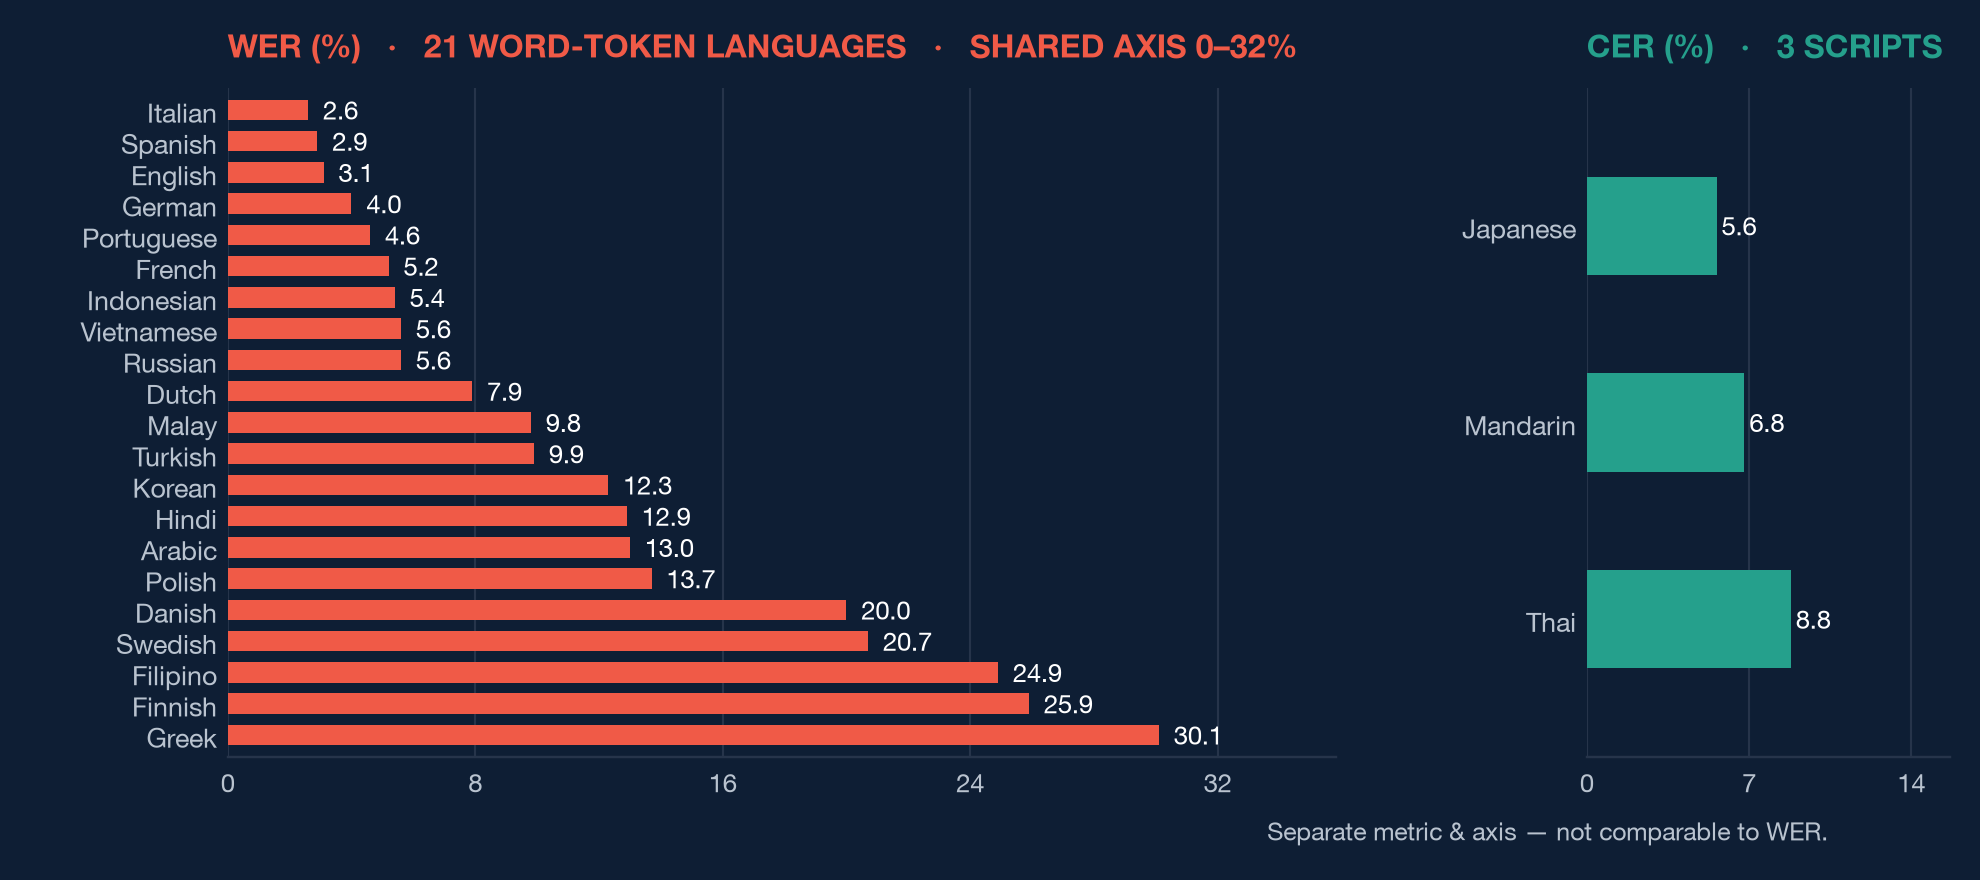
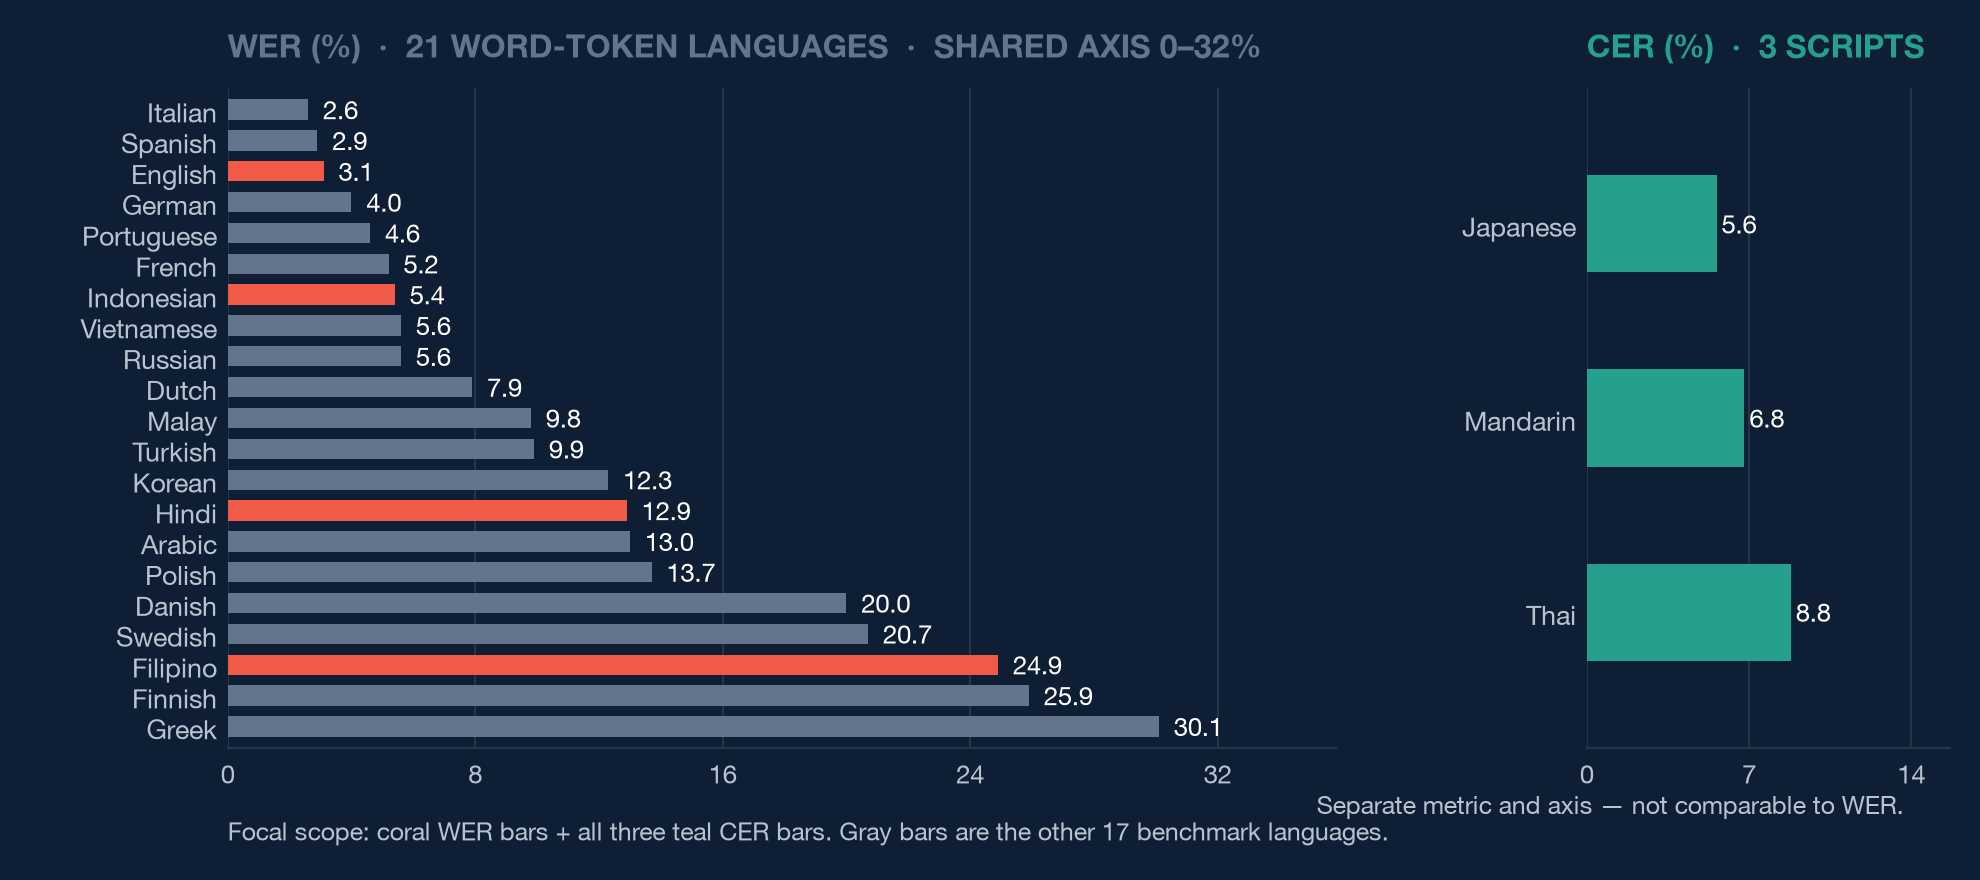
Expand talk charts to seven focal languages

diff --git a/docs/talks/cohere-multilingual-voice/charts/render_charts.py b/docs/talks/cohere-multilingual-voice/charts/render_charts.py
@@ -1,0 +1,276 @@
+from pathlib import Path
+
+import matplotlib
+
+matplotlib.use("Agg")
+
+import matplotlib.pyplot as plt
+from matplotlib import font_manager
+
+
+OUT = Path(__file__).parent
+FONT = "/System/Library/Fonts/HelveticaNeue.ttc"
+
+INK = "#0e1e34"
+CORAL = "#f05a47"
+TEAL = "#25a08c"
+OFF_WHITE = "#f9f7f2"
+WHITE = "#ffffff"
+GRID = "#cfd6de"
+TRACK = "#e3e0d7"
+INTERVAL = "#9aa6b2"
+NAVY_GRID = "#26344a"
+NAVY_LABEL = "#b9c3cf"
+NON_FOCAL = "#64748a"
+
+font_manager.fontManager.addfont(FONT)
+plt.rcParams["font.family"] = "Helvetica Neue"
+
+
+def render_focal_forest() -> None:
+    fig, (wer_ax, cer_ax) = plt.subplots(
+        2,
+        1,
+        figsize=(9.0, 4.0),
+        dpi=220,
+        gridspec_kw={"height_ratios": [4, 3], "hspace": 0.53},
+    )
+    fig.patch.set_facecolor(OFF_WHITE)
+
+    def forest(ax, rows, axis_max, color, title):
+        ax.set_facecolor(OFF_WHITE)
+        positions = list(range(len(rows)))[::-1]
+        for (language, value, low, high), y in zip(rows, positions):
+            ax.hlines(y, 0, axis_max, color=TRACK, linewidth=6, zorder=1)
+            ax.hlines(y, low, high, color=INTERVAL, linewidth=6, zorder=2)
+            ax.plot([low, low], [y - 0.16, y + 0.16], color=INTERVAL, linewidth=1.6)
+            ax.plot([high, high], [y - 0.16, y + 0.16], color=INTERVAL, linewidth=1.6)
+            ax.scatter(
+                [value],
+                [y],
+                s=140,
+                color=color,
+                edgecolors=OFF_WHITE,
+                linewidths=1.4,
+                zorder=4,
+            )
+            ax.text(
+                axis_max * 1.02,
+                y,
+                f"{value:.1f}%  [{low:.1f}–{high:.1f}]",
+                va="center",
+                ha="left",
+                fontsize=9.8,
+                color=INK,
+            )
+
+        ax.set_yticks(positions)
+        ax.set_yticklabels([row[0] for row in rows], fontsize=10.8, color=INK)
+        ax.set_xlim(0, axis_max)
+        ax.set_ylim(-0.6, len(rows) - 0.4)
+        for side in ("top", "right", "left"):
+            ax.spines[side].set_visible(False)
+        ax.spines["bottom"].set_color(GRID)
+        ax.tick_params(axis="x", colors=INK, labelsize=9, length=0)
+        ax.tick_params(axis="y", length=0)
+        ax.grid(axis="x", color=GRID, linewidth=0.7, zorder=0)
+        ax.set_axisbelow(True)
+        ax.set_title(title, loc="left", fontsize=10.8, color=color, fontweight="bold", pad=8)
+
+    forest(
+        wer_ax,
+        [
+            ("English · baseline", 3.1, 2.3, 4.0),
+            ("Indonesian", 5.4, 4.0, 7.2),
+            ("Hindi", 12.9, 11.1, 15.1),
+            ("Filipino", 24.9, 22.2, 28.0),
+        ],
+        30,
+        CORAL,
+        "WER  ·  4 WORD-TOKEN LANGUAGES  ·  LOWER IS BETTER  ·  AXIS 0–30%",
+    )
+    wer_ax.set_xticks([0, 5, 10, 15, 20, 25, 30])
+    wer_ax.set_xticklabels(["0", "5", "10", "15", "20", "25", "30%"])
+
+    forest(
+        cer_ax,
+        [
+            ("Japanese", 5.6, 4.5, 6.9),
+            ("Mandarin", 6.8, 4.0, 9.9),
+            ("Thai", 8.8, 6.1, 12.4),
+        ],
+        14,
+        TEAL,
+        "CER  ·  3 NON-SPACED SCRIPTS  ·  LOWER IS BETTER  ·  AXIS 0–14%",
+    )
+    cer_ax.set_xticks([0, 3.5, 7, 10.5, 14])
+    cer_ax.set_xticklabels(["0", "3.5", "7", "10.5", "14%"])
+
+    plt.subplots_adjust(left=0.165, right=0.80, top=0.94, bottom=0.09)
+    fig.savefig(OUT / "focal_forest.png", facecolor=OFF_WHITE, dpi=220)
+    plt.close(fig)
+
+
+def render_all_languages() -> None:
+    wer = [
+        ("Italian", 2.6),
+        ("Spanish", 2.9),
+        ("English", 3.1),
+        ("German", 4.0),
+        ("Portuguese", 4.6),
+        ("French", 5.2),
+        ("Indonesian", 5.4),
+        ("Vietnamese", 5.6),
+        ("Russian", 5.6),
+        ("Dutch", 7.9),
+        ("Malay", 9.8),
+        ("Turkish", 9.9),
+        ("Korean", 12.3),
+        ("Hindi", 12.9),
+        ("Arabic", 13.0),
+        ("Polish", 13.7),
+        ("Danish", 20.0),
+        ("Swedish", 20.7),
+        ("Filipino", 24.9),
+        ("Finnish", 25.9),
+        ("Greek", 30.1),
+    ]
+    cer = [("Japanese", 5.6), ("Mandarin", 6.8), ("Thai", 8.8)]
+    focal_wer = {"English", "Indonesian", "Hindi", "Filipino"}
+
+    fig = plt.figure(figsize=(9.0, 4.0), dpi=220)
+    fig.patch.set_facecolor(INK)
+    grid = fig.add_gridspec(1, 2, width_ratios=[3.05, 1], wspace=0.34)
+    wer_ax = fig.add_subplot(grid[0])
+    cer_ax = fig.add_subplot(grid[1])
+
+    def dark_bar(ax, rows, axis_max, colors, title, ticks, height=0.66):
+        ax.set_facecolor(INK)
+        positions = list(range(len(rows)))[::-1]
+        ax.barh(
+            positions,
+            [row[1] for row in rows],
+            height=height,
+            color=colors,
+            zorder=3,
+        )
+        for (_, value), y in zip(rows, positions):
+            ax.text(
+                value + axis_max * 0.015,
+                y,
+                f"{value:.1f}",
+                va="center",
+                ha="left",
+                fontsize=8.5,
+                color=WHITE,
+            )
+        ax.set_yticks(positions)
+        ax.set_yticklabels([row[0] for row in rows], fontsize=8.8, color=NAVY_LABEL)
+        ax.set_xlim(0, axis_max * 1.12)
+        ax.set_ylim(-0.7, len(rows) - 0.3)
+        for side in ("top", "right", "left"):
+            ax.spines[side].set_visible(False)
+        ax.spines["bottom"].set_color(NAVY_GRID)
+        ax.set_xticks(ticks)
+        ax.set_xticklabels([str(tick) for tick in ticks], fontsize=8.5, color=NAVY_LABEL)
+        ax.tick_params(colors=NAVY_LABEL, length=0)
+        ax.grid(axis="x", color=NAVY_GRID, linewidth=0.7, zorder=0)
+        ax.set_axisbelow(True)
+        ax.set_title(title, loc="left", fontsize=10.5, color=colors[-1], fontweight="bold", pad=10)
+
+    wer_colors = [CORAL if language in focal_wer else NON_FOCAL for language, _ in wer]
+    dark_bar(
+        wer_ax,
+        wer,
+        32,
+        wer_colors,
+        "WER (%)  ·  21 WORD-TOKEN LANGUAGES  ·  SHARED AXIS 0–32%",
+        [0, 8, 16, 24, 32],
+    )
+    dark_bar(
+        cer_ax,
+        cer,
+        14,
+        [TEAL] * len(cer),
+        "CER (%)  ·  3 SCRIPTS",
+        [0, 7, 14],
+        height=0.5,
+    )
+    fig.text(
+        0.115,
+        0.045,
+        "Focal scope: coral WER bars + all three teal CER bars. Gray bars are the other 17 benchmark languages.",
+        fontsize=8.2,
+        color=NAVY_LABEL,
+        ha="left",
+    )
+    fig.text(
+        0.665,
+        0.075,
+        "Separate metric and axis — not comparable to WER.",
+        fontsize=8.2,
+        color=NAVY_LABEL,
+        ha="left",
+    )
+    plt.subplots_adjust(left=0.115, right=0.985, top=0.90, bottom=0.15)
+    fig.savefig(OUT / "all24_bars.png", facecolor=INK, dpi=220)
+    plt.close(fig)
+
+
+def render_tts_latency() -> None:
+    rows = [
+        ("English · baseline", 482, 553, 640, 712),
+        ("Indonesian", 485, 519, 642, 676),
+        ("Japanese", 486, 530, 643, 694),
+        ("Mandarin", 486, 563, 643, 691),
+        ("Filipino", 488, 522, 647, 681),
+        ("Thai", 503, 555, 662, 708),
+        ("Hindi", 504, 540, 662, 698),
+    ]
+
+    fig, (engine_ax, client_ax) = plt.subplots(
+        1,
+        2,
+        figsize=(9.0, 3.65),
+        dpi=220,
+        gridspec_kw={"wspace": 0.32},
+    )
+    fig.patch.set_facecolor(OFF_WHITE)
+
+    def percentile_plot(ax, p50_index, p95_index, title):
+        positions = list(range(len(rows)))[::-1]
+        ax.set_facecolor(OFF_WHITE)
+        for row, y in zip(rows, positions):
+            p50, p95 = row[p50_index], row[p95_index]
+            ax.hlines(y, p50, p95, color=INTERVAL, linewidth=3, zorder=2)
+            ax.scatter(p50, y, s=90, color=CORAL, edgecolors=OFF_WHITE, linewidths=1.2, zorder=3)
+            ax.scatter(p95, y, s=70, marker="D", color=TEAL, edgecolors=OFF_WHITE, linewidths=1.0, zorder=3)
+            ax.text(p50 - 8, y + 0.18, str(p50), ha="right", va="bottom", fontsize=8, color=CORAL)
+            ax.text(p95 + 8, y - 0.18, str(p95), ha="left", va="top", fontsize=8, color=TEAL)
+
+        ax.set_yticks(positions)
+        ax.set_yticklabels([row[0] for row in rows], fontsize=9.2, color=INK)
+        ax.set_xlim(440, 750)
+        ax.set_xticks([450, 500, 550, 600, 650, 700, 750])
+        ax.set_xticklabels(["450", "500", "550", "600", "650", "700", "750 ms"], fontsize=8.2)
+        ax.tick_params(axis="both", length=0, colors=INK)
+        ax.grid(axis="x", color=GRID, linewidth=0.7, zorder=0)
+        for side in ("top", "right", "left"):
+            ax.spines[side].set_visible(False)
+        ax.spines["bottom"].set_color(GRID)
+        ax.set_title(title, loc="left", fontsize=11, color=INK, fontweight="bold", pad=10)
+
+    percentile_plot(engine_ax, 1, 2, "TTS ENGINE FIRST AUDIO")
+    percentile_plot(client_ax, 3, 4, "CLIENT FIRST AUDIO")
+    client_ax.set_yticklabels([])
+
+    fig.text(0.50, 0.02, "Coral circle: p50   ·   Teal diamond: p95", color=INK, fontsize=9, ha="center")
+    plt.subplots_adjust(left=0.16, right=0.985, top=0.90, bottom=0.14)
+    fig.savefig(OUT / "tts_latency.png", facecolor=OFF_WHITE, dpi=220)
+    plt.close(fig)
+
+
+if __name__ == "__main__":
+    render_focal_forest()
+    render_all_languages()
+    render_tts_latency()
